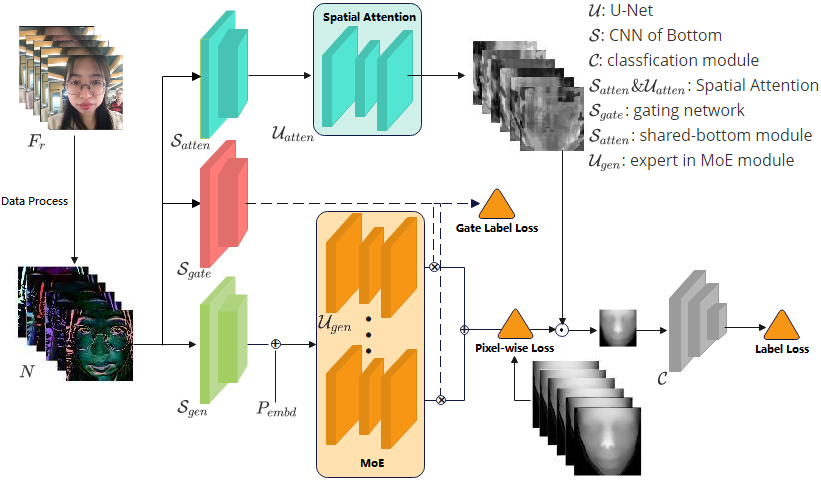
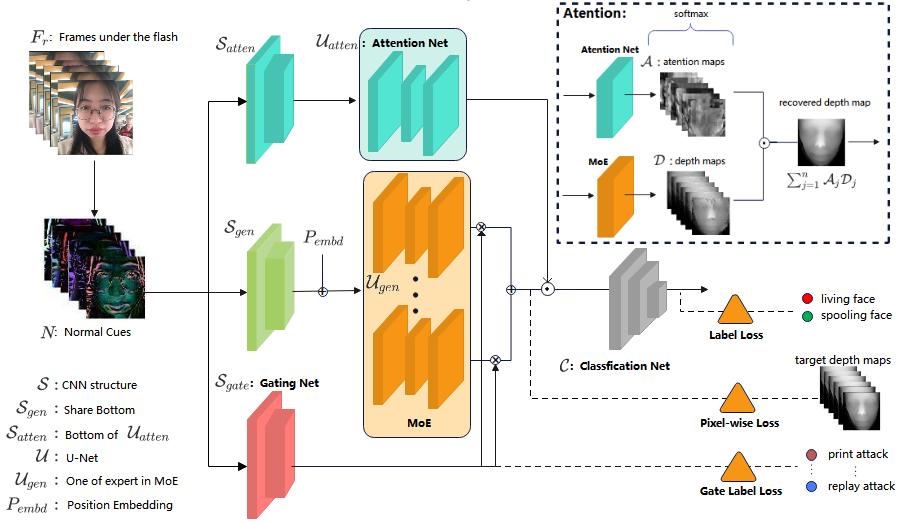
continue

diff --git a/MoESA/MoESA.md b/MoESA/MoESA.md
@@ -1,9 +1,11 @@
-# Mixture-of-Experts Spatial Attention Network for light reflection facial anti-spoofing
+# Mixture-of-Experts Attention Network for light reflection facial anti-spoofing
 
-
+（恒玉帮改word）
 
 ## Abstract
-    This paper proposes a Mixture-of-Experts Spatial Attention Network(MoESA) for light reflection face anti-spoofing which is simple yet effective that has already been used by millions of user. Specifically, MoESA first uses a shared-bottom feature-extraction module, and then uses a few end-to-end trainable U-Net as expert modules to estimate the multi-frame facial depth maps, a gating network take the input features and output softmax gates assembling the experts with different weights. Last we uses Spatial Attention to merge there recovered multi-frame depth maps to one,  then sent to a simple classifification structure to distinguish the real 3D face from those 2D presentation attacks. Extensive experiments on our datasets demonstrate the superiority of our proposed method over the state of the arts.
+   1背景和问题、2（方法，简洁 逻辑），3实验和结论
+
+ This paper proposes a Mixture-of-Experts Spatial Attention Network(MoESA) for light reflection face anti-spoofing which is simple yet effective that has already been used by millions of user. Specifically, MoESA first uses a shared-bottom feature-extraction module, and then uses a few end-to-end trainable U-Net as expert modules to estimate the multi-frame facial depth maps, a gating network take the input features and output softmax gates assembling the experts with different weights. Last we uses Spatial Attention to merge there recovered multi-frame depth maps to one,  then sent to a simple classifification structure to distinguish the real 3D face from those 2D presentation attacks. （构造数据集，我们的数据集不明白）Extensive experiments on our datasets demonstrate the superiority of our proposed method over the state of the arts.
 
 Keywords:Mixture-of-Experts,Spatial Attention,gating network,face anti-spoofing
 
@@ -43,11 +45,11 @@ Keywords:Mixture-of-Experts,Spatial Attention,gating network,face anti-spoofing
 
 ## 3.The Proposed Method
 
-    In this section, we will first introduce the methods for obtaining multi-frame normal cues as input data in Section 3.1, then introduce the Mixture-of-Experts Spatial Attention Network(MoESA) in Section 3.2, and at last rethinking the uneven distribution of samples at Section 3.3.
+    In this section, we will first introduce the methods for obtaining multi-frame normal cues as input data in Section 3.1, then introduce the Mixture-of-Experts Spatial Attention Network(MoESA) in Section 3.2, and at last rethinking the uneven distribution of samples at Section 3.3.（MoE和SA融一起了）
 
 <img src="./images/fig1.jpg"   align="center"/>
 
-<center> **Figure 1:Mixture-of-Experts Spatial Attention Network.**We uses a few end-to-end trainable U-Net as expect module to estimate the facial depth maps and deal with different attack instruments.Spatial Attention will merge recovered multi-frame depth maps  to one-frame.  </center>
+<center> （输入区，target区，深度图没写，哪个是入口哪个是出口不明白，3个loss引出来，输出放在一排；找超超帮忙）**Figure 1:Mixture-of-Experts Spatial Attention Network.**We uses a few end-to-end trainable U-Net as expect module to estimate the facial depth maps and deal with different attack instruments.Spatial Attention will merge recovered multi-frame depth maps  to one-frame. （每个模块的解释）（data Process 改成预法线信息生成，虚线加箭头，点积没有注释） </center>
 
 ### 3.1.Multi-Frame Normal Cues 
 
@@ -73,6 +75,10 @@ $$
 Normal cues will be normalize at last. **Fig. 2** illustrates the method of obtaining multi-frame normal cues. 
 
 ### 3.2.Mixture-of-Experts Spatial Attention Network
+
+（详细一下模型解构，加图细化；介绍MoE、SA）
+
+
 
     We generated depth maps for $F_r$, and uses end-to-end trainable U-Net to regress these facial depth maps, so the model will understand facial partitions information from input in high-level features, but low-level features still can't know what area the current pixel belongs to, so position embeddings are added to the feature maps directy to retain positional information. After doing so, we found that the model converges faster and the accuracy is improved. 
 
@@ -133,10 +139,14 @@ $$
 <img src="./images/fig3.jpg" width = "500" height = "343"  align="center"/>
 <center> **Figure 3:Hard and Easy Samples.**. Easy Living Face and Easy Spoofing Face case are easy to distinguish, Hard Living Face and Hard Spoofing Face case are hard to distinguish.  </center>
 
+（没写清楚，别的难样本搞不定我们搞得定，目的，每张图都说清楚情况）
+
     We found that most samples in our dataset are well classified, call them easy case.Due to the change of ambient light or the flicker of electronic screen, we will encounter attack samples that are difficult to classify in a few cases, call them hard case. It is difficult for the model to learn how to distinguish hard cases because the number is too less. So we first trained a weak model to mark hard case and easy case, then enlarge the sampling proportion of hard case, last we trained a strong model, and found that the classification ability of the model will be significantly improved. The detailed case and recovered depth maps of them is shown in **Fig. 3**.
 
 ## 4.Experiments
 ### 4.1 Implementation Details
+
+实验目的。
 
 #### Depth Generation
 
